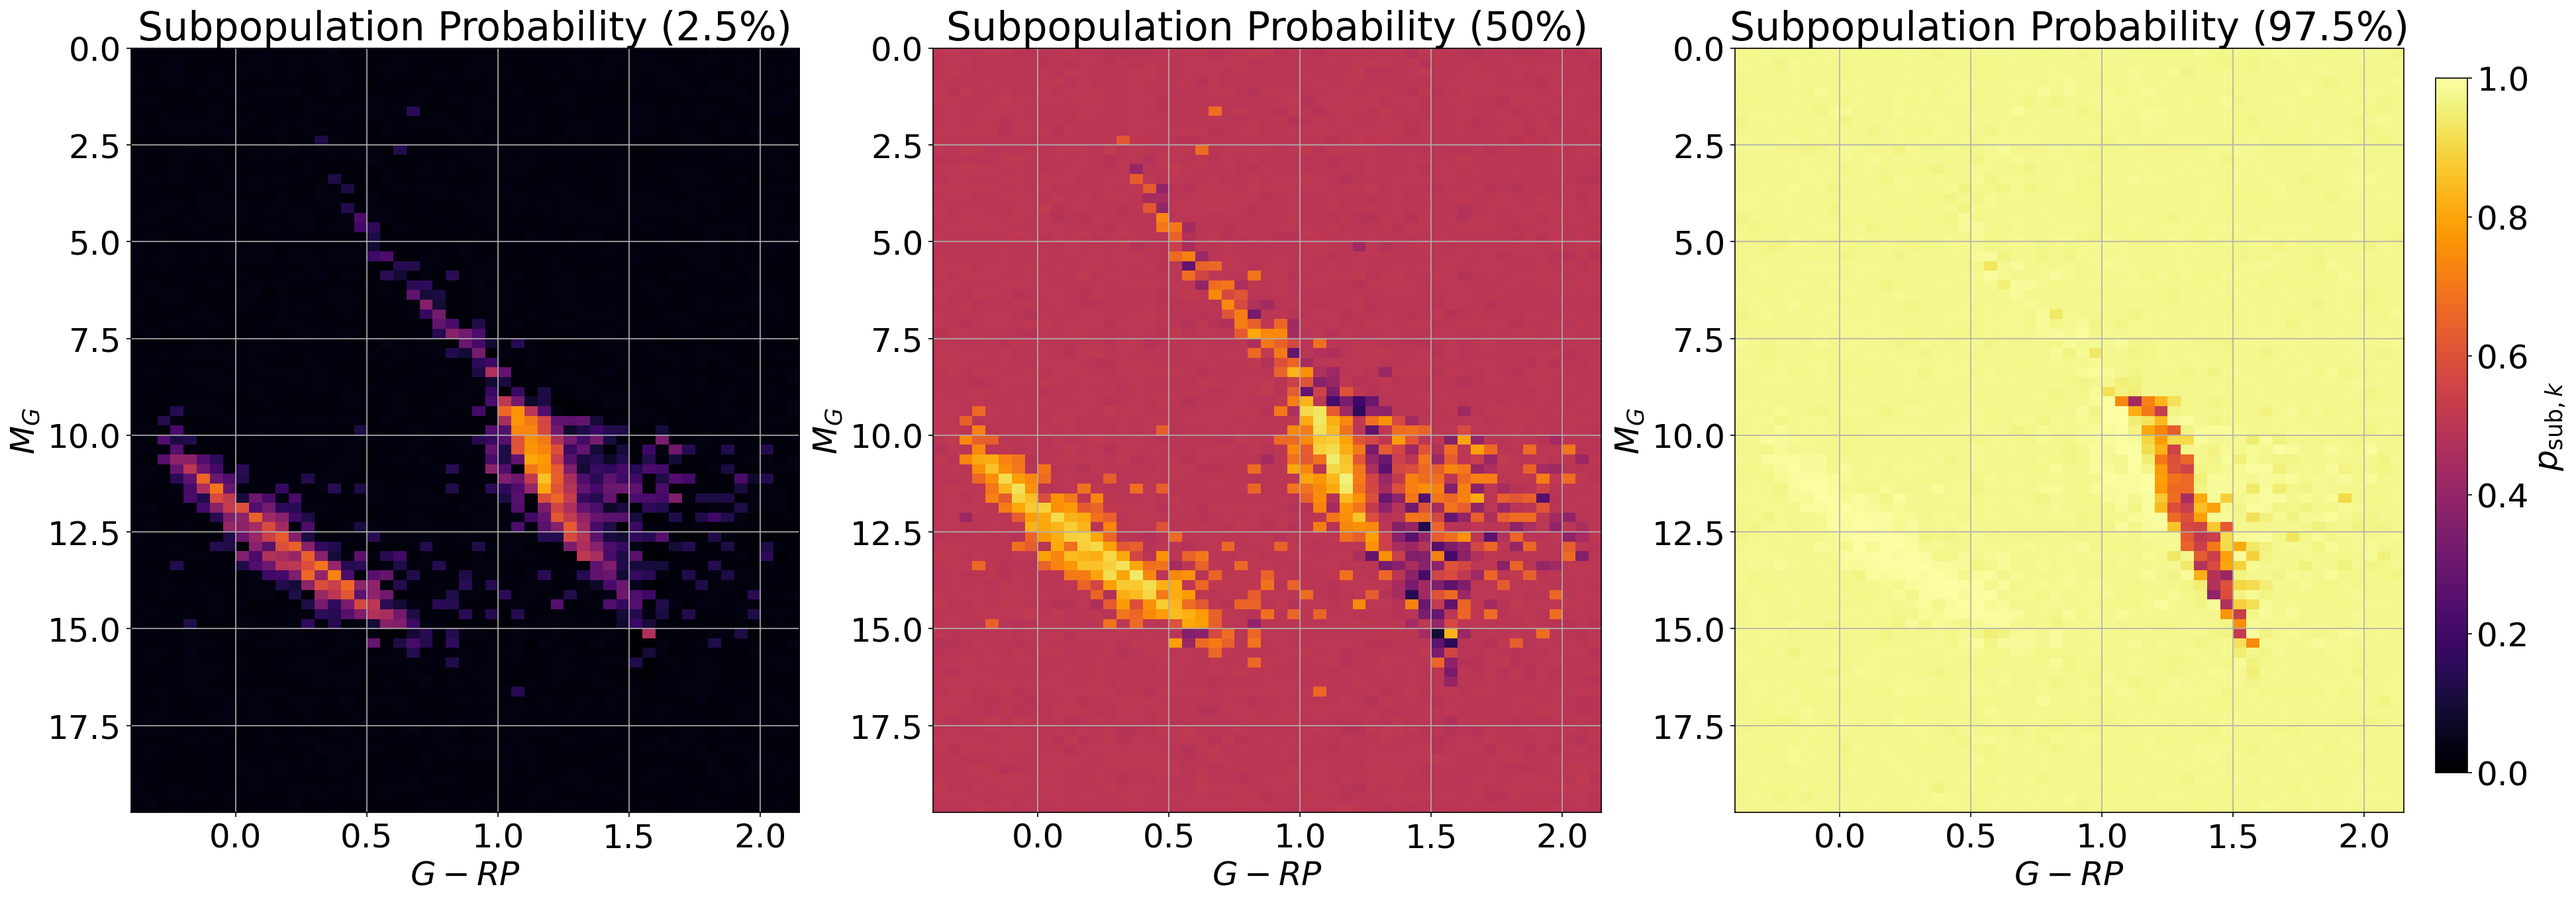
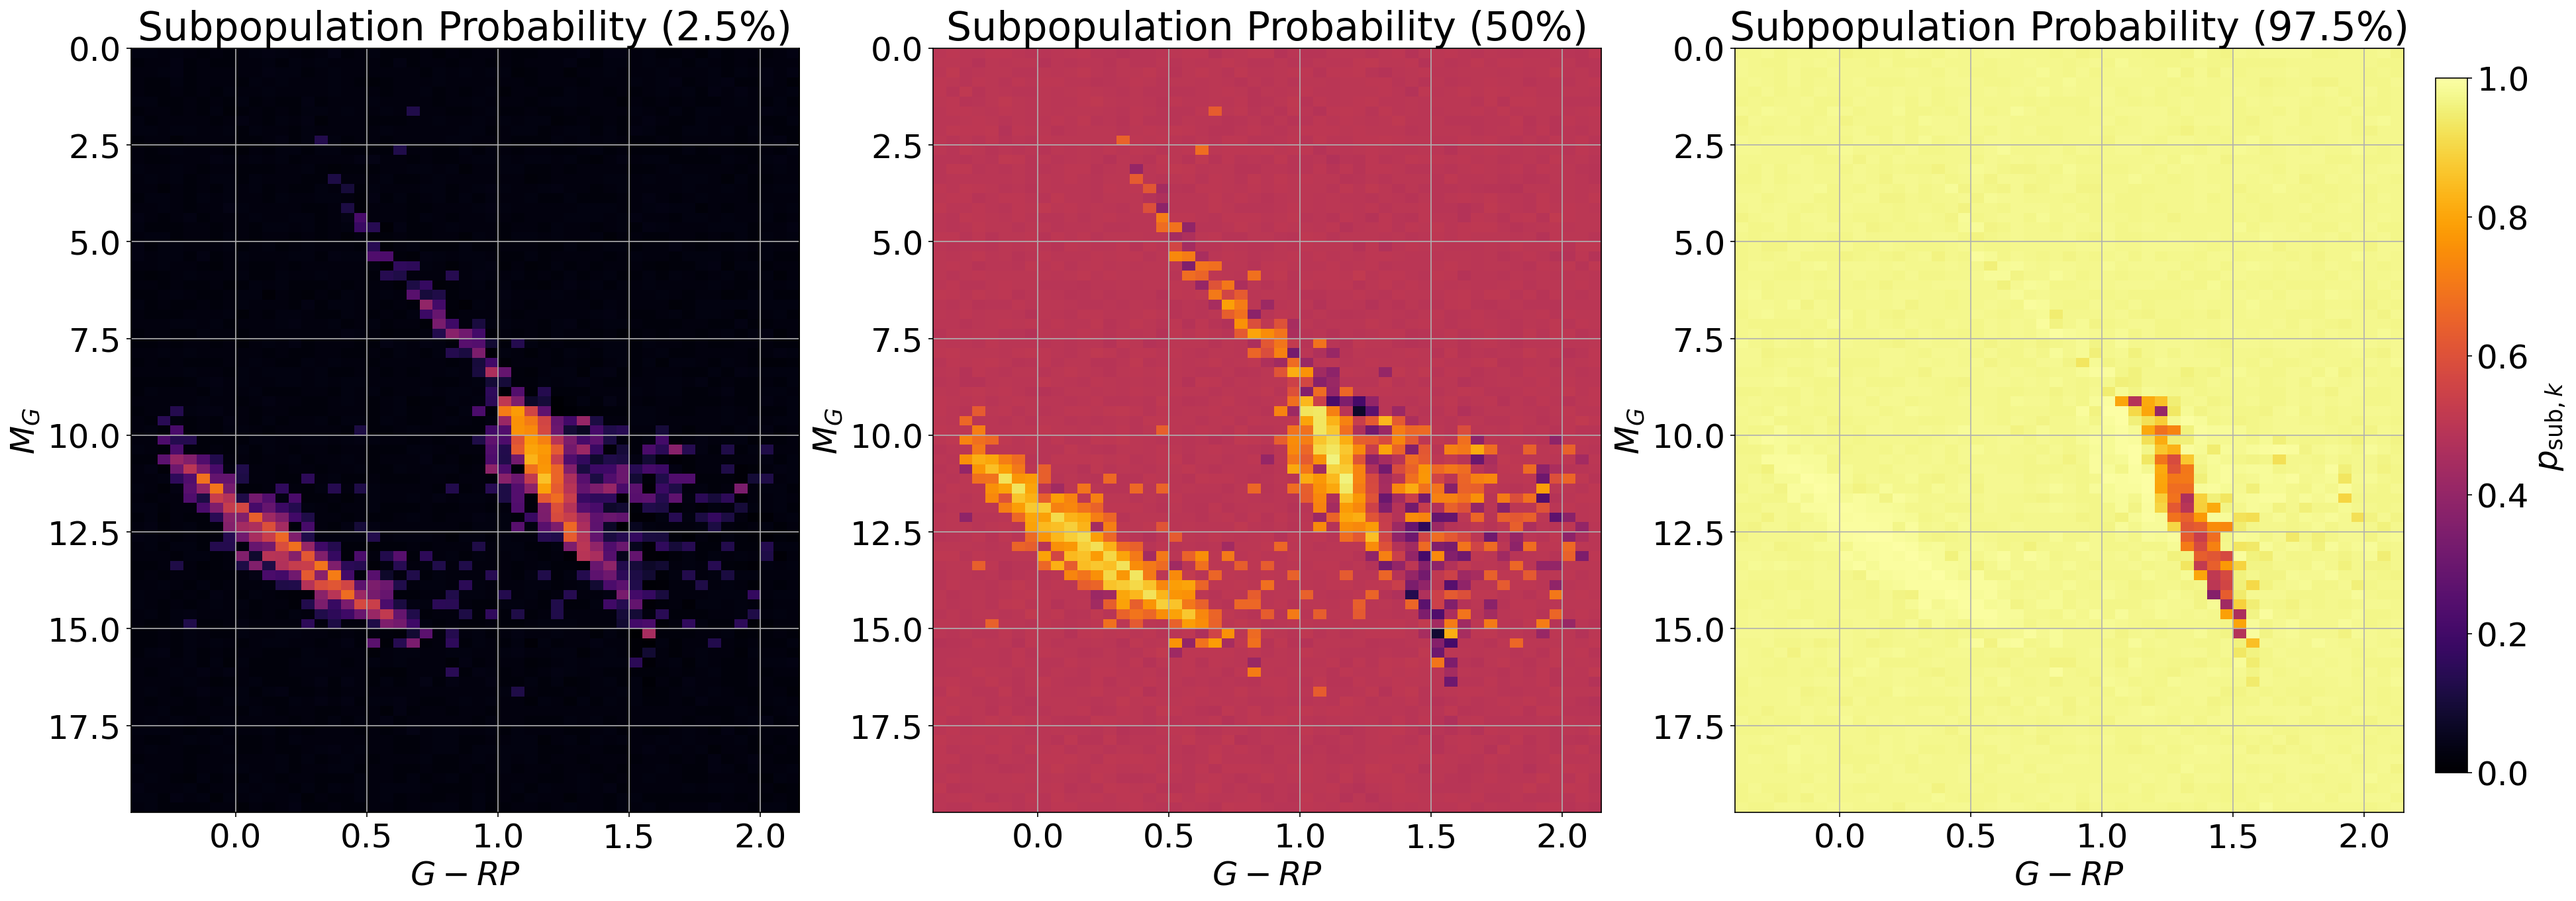
update example

diff --git a/notebooks/forward_model_GCNS_mock_proof.py b/notebooks/forward_model_GCNS_mock_proof.py
@@ -23,10 +23,10 @@ if __name__ == '__main__':
     n_g_rp = len(np.arange(*sf_bins['g_rp'])) - 1
     n_mg = len(np.arange(*MG_bin_list)) - 1
 
-    data_file = 'obs_100pc_edr3.csv'
+    data_file = '../../obs_100pc_edr3.csv'
 
     # initilize
-    mean = True
+    mean = False
     sf = SNCSelectionFunction(data_file, sf_bins, MG_bin_list, mean=mean)
 
     # get A_jks

diff --git a/notebooks/forward_model_halpha_ex.py b/notebooks/forward_model_halpha_ex.py
@@ -51,7 +51,7 @@ if __name__ == '__main__':
         data_LF[cols_save].write_csv('LF_snc_forward_data.csv')
 
     # initialize with LF dataset
-    mean = True
+    mean = False
     sf = SNCSelectionFunction('LF_snc_forward_data.csv', sf_bins, MG_bin_list, mean=mean)
 
     # get A_jks
